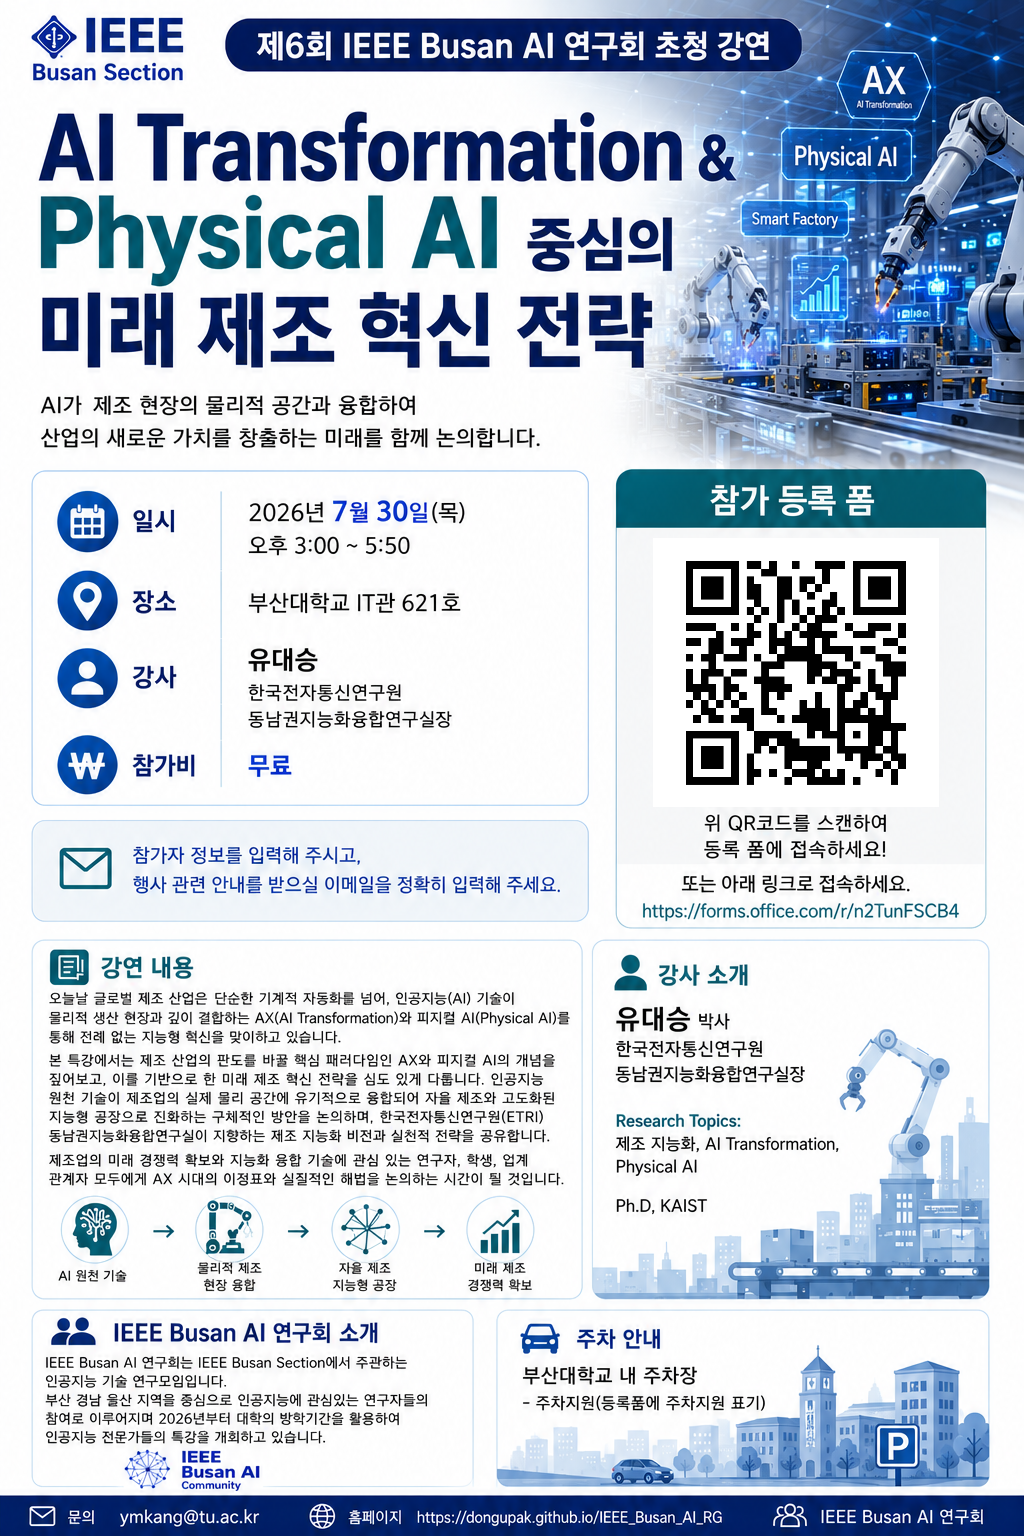
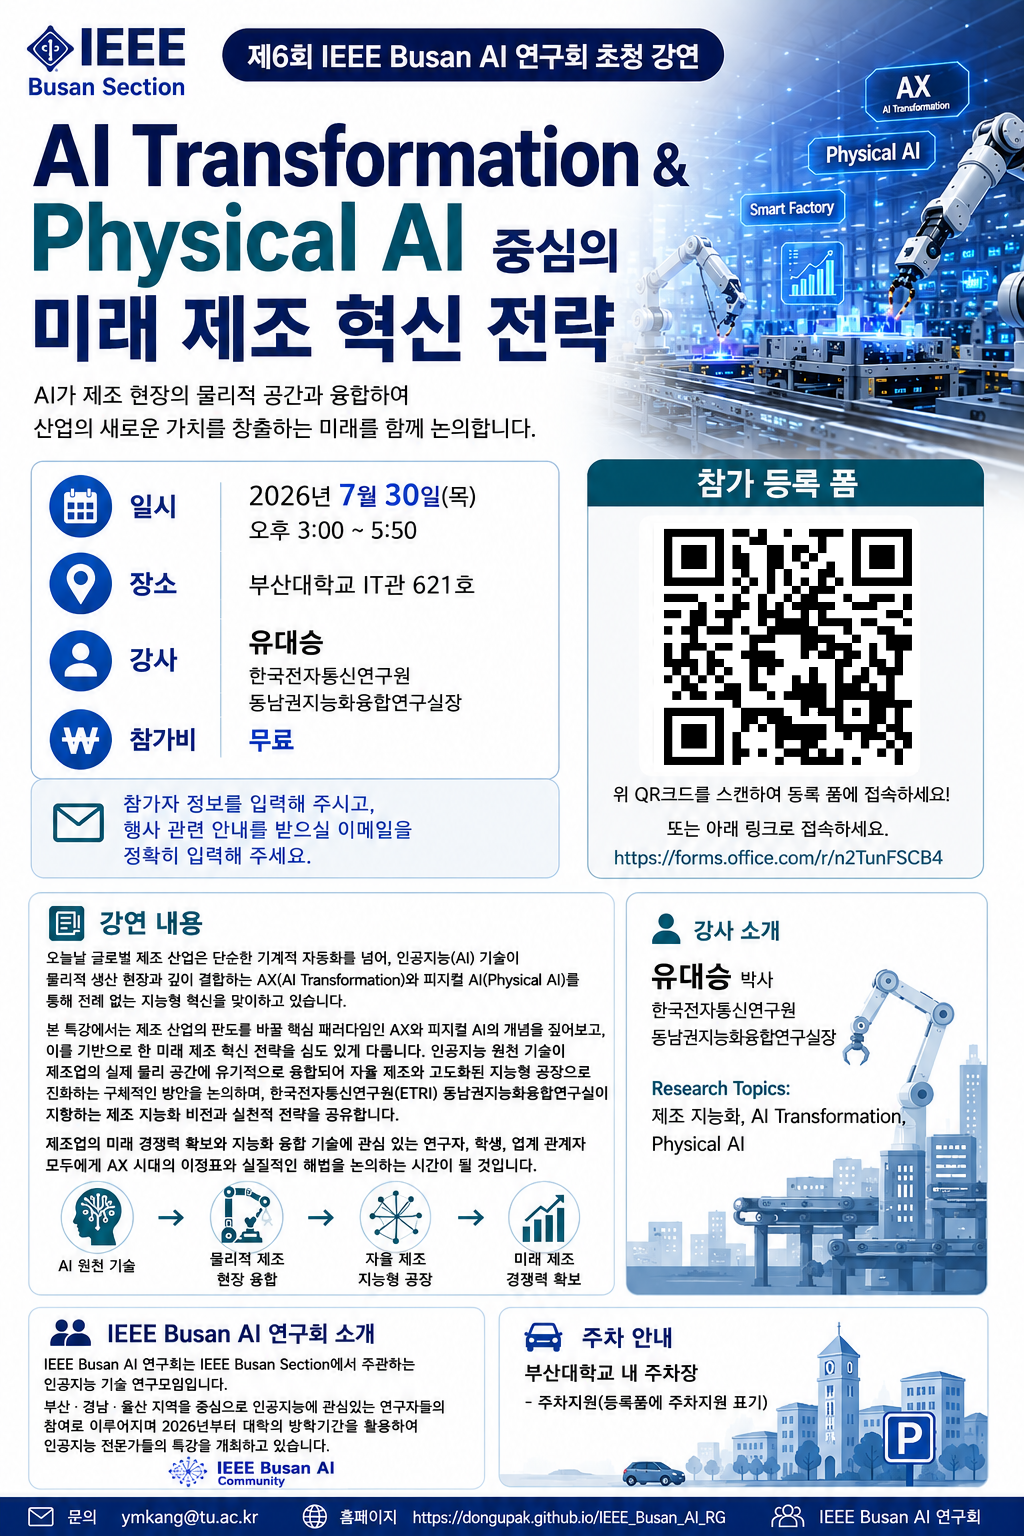
Add 6th seminar event photos and expose them on site
Rename long KakaoTalk filenames to rg6_01..09.jpg, add pics README,
and update the RG6 section to show event photos now that the seminar
has concluded (remove registration form, add photo folder link).

diff --git a/index.html b/index.html
@@ -370,20 +370,19 @@ const lectures = [
     pics:["KakaoTalk_Photo_2026-07-14-11-56-52 001.jpeg","KakaoTalk_Photo_2026-07-14-11-56-52 002.jpeg","KakaoTalk_Photo_2026-07-14-11-56-52 003.jpeg","KakaoTalk_Photo_2026-07-14-11-57-34.jpeg","KakaoTalk_Photo_2026-07-14-11-58-18 001.jpeg","KakaoTalk_Photo_2026-07-14-11-58-19 002.jpeg","KakaoTalk_Photo_2026-07-14-11-58-19 003.jpeg","KakaoTalk_Photo_2026-07-14-11-58-20 004.jpeg","KakaoTalk_Photo_2026-07-14-11-58-20 005.jpeg","KakaoTalk_Photo_2026-07-14-11-58-20 006.jpeg"]
   },
   {
-    id:"rg6", no:"06", kicker:"2026 · 6차 특강 · 참가 신청 접수 중",
+    id:"rg6", no:"06", kicker:"2026 · 6차 특강",
     title:"AI Transformation & Physical AI 중심의 미래 제조 혁신 전략",
     date:"2026년 7월 30일 (목) 15:00 – 17:50",
     place:"부산대학교 IT관 621호",
     speaker:"유대승 박사 (한국전자통신연구원 동남권지능화융합연구실)",
     desc:"오늘날 글로벌 제조 산업은 단순한 기계적 자동화를 넘어, 인공지능(AI) 기술이 물리적 생산 현장과 깊이 결합하는 AX(AI Transformation)와 피지컬 AI(Physical AI)를 통해 전례 없는 지능형 혁신을 맞이하고 있습니다. 본 특강에서는 제조 산업의 판도를 바꿀 핵심 패러다임인 AX와 피지컬 AI의 개념을 짚어보고, 이를 기반으로 한 미래 제조 혁신 전략을 심도 있게 다룹니다.\n인공지능 원천 기술이 제조업의 실제 물리 공간에 유기적으로 융합되어 자율 제조와 고도화된 지능형 공장으로 진화하는 구체적인 방안을 논의하며, 한국전자통신연구원(ETRI) 동남권지능화융합연구실이 지향하는 제조 지능화 비전과 실천적 전략을 공유합니다. 제조업의 미래 경쟁력 확보와 지능화 융합 기술에 관심 있는 연구자, 학생, 업계 관계자 모두에게 AX 시대의 이정표와 실질적인 해법을 논의하는 시간이 될 것입니다.",
     files:[
-      {label:"참가 등록 폼 (무료)", ic:"📝", primary:true, href:"https://forms.office.com/r/n2TunFSCB4"},
-      {label:"발표 자료 · 공개버전 (PDF)", ic:"📄", href:"2026_RG6/AI Transformation & Physical AI 중심의 미래 제조 혁신 전략_공개버전_유대승(ETRI).pdf"},
-      {label:"세미나 포스터", ic:"🖼", href:"2026_RG6/제6회IEEE_Busan_AI_RG세미나.png"}
+      {label:"발표 자료 · 공개버전 (PDF)", ic:"📄", primary:true, href:"2026_RG6/AI Transformation & Physical AI 중심의 미래 제조 혁신 전략_공개버전_유대승(ETRI).pdf"},
+      {label:"세미나 포스터", ic:"🖼", href:"2026_RG6/제6회IEEE_Busan_AI_RG세미나.png"},
+      {label:"행사 사진 폴더", ic:"🖼", href:"https://github.com/dongupak/IEEE_Busan_AI_RG/tree/main/2026_RG6/pics"}
     ],
-    gtitle:"🗓 세미나 포스터 · 클릭하면 크게 보기",
-    dir:"2026_RG6/",
-    pics:["제6회IEEE_Busan_AI_RG세미나.png"]
+    dir:"2026_RG6/pics/",
+    pics:["rg6_01.jpg","rg6_02.jpg","rg6_03.jpg","rg6_04.jpg","rg6_05.jpg","rg6_06.jpg","rg6_07.jpg","rg6_08.jpg","rg6_09.jpg"]
   }
 ];
 

diff --git a/2026_RG6/pics/README.md b/2026_RG6/pics/README.md
@@ -1,0 +1,2 @@
+# 행사 사진 모음
+6차 특강(AI Transformation & Physical AI 중심의 미래 제조 혁신 전략)의 강의 장면과 네트워킹 장면 사진입니다.
